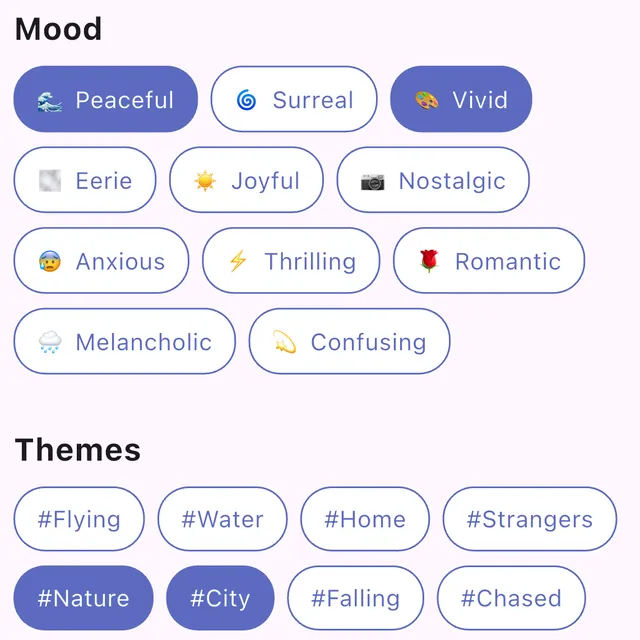
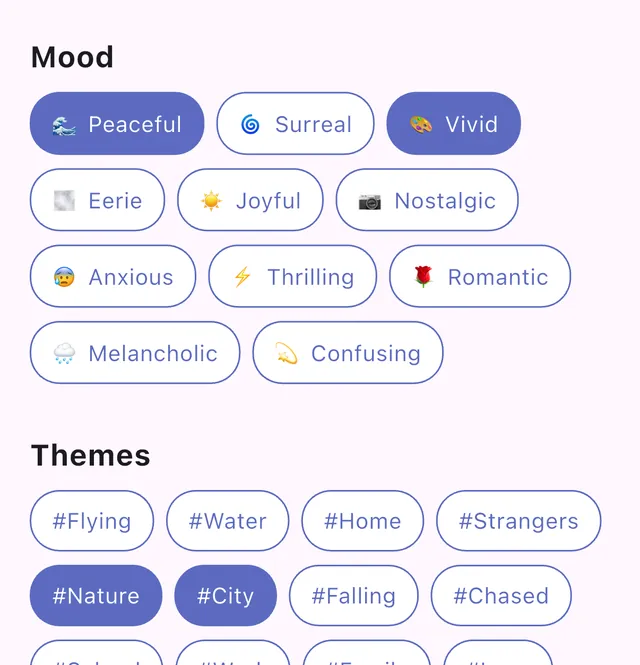
Give the Add Details crop breathing room
Expand the crop box by 56 source pixels on every side, clamped to the
image bounds (0, 1170, 1206, 2424), so the app's own pale background pads
the chips evenly inside the card. add-details-card.webp re-encodes at
640x666; the other five outputs re-encode byte-identical.

Claude-Session: https://claude.ai/code/session_014QP9bFU3aN9FrmoaFkVHK5

Changed region(s): [[0.0, 0.0312, 0.9375, 0.5938], [0.0, 0.6562, 0.9688, 1.0]]

diff --git a/scripts/encode-store-shots.py b/scripts/encode-store-shots.py
@@ -55,8 +55,10 @@ ARCHETYPE_BOX = (56, 728, 1150, 1022)
 ARCHETYPE_WIDTH = 640
 
 # Mood and theme chips on the 1206x2622 Add Details screenshot: from the
-# "Mood" label through the second row of theme chips.
-ADD_DETAILS_BOX = (32, 1226, 1174, 2368)
+# "Mood" label through the second row of theme chips, with about 56 px of the
+# app's own pale background on every side (clamped to the image bounds) so the
+# card has even breathing room inside.
+ADD_DETAILS_BOX = (0, 1170, 1206, 2424)
 ADD_DETAILS_WIDTH = 640
 
 PHONE_SHOTS = {
